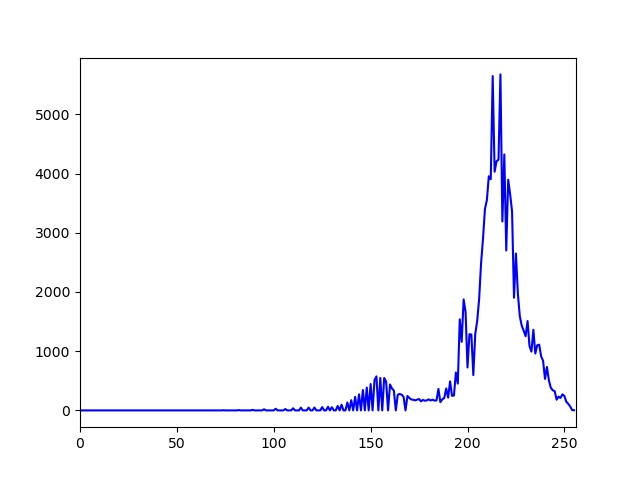
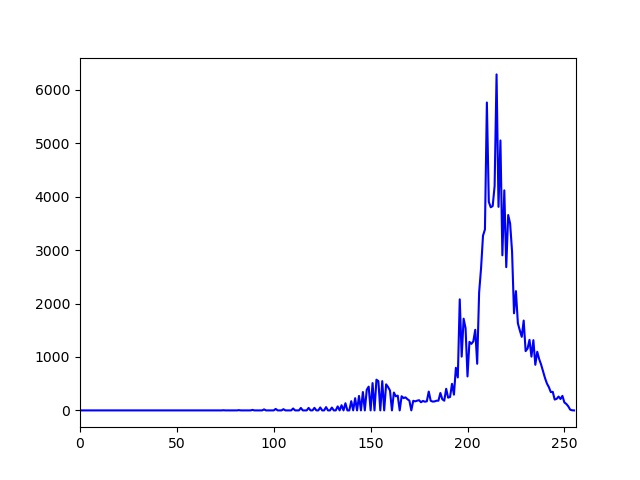
Aufgabe 2 fertig

diff --git a/Bildbearbeitung/Excercise2/HistogramManipulation.py b/Bildbearbeitung/Excercise2/HistogramManipulation.py
@@ -1,6 +1,7 @@
 import cv2
 import numpy as np
 import Utilities
+import random
 
 # function to apply a look-up table onto an image
 def applyLUT(img, LUT):
@@ -101,6 +102,11 @@ def closeGapsHistogram(img):
 
     result = img.copy()
 
+    for i in range(result.shape[0]):
+        for j in range(result.shape[1]):
+            if result[i,j] >= 4 and result[i,j] <=251:
+                result[i,j] = result[i,j] + random.random()*10 - 5
+    
     return result
 
 # function to create a vector containing the histogram
